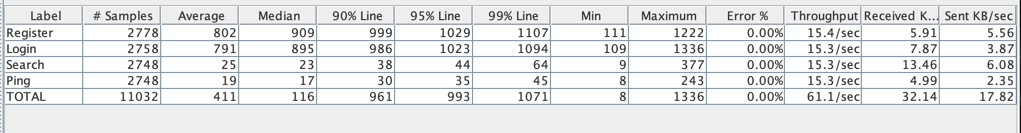
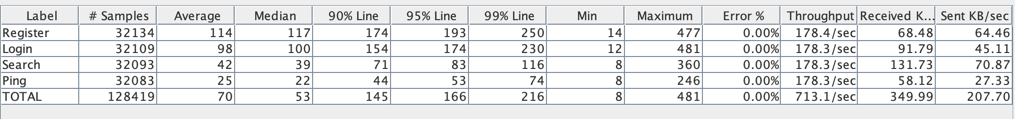
update report

diff --git a/jmeter/report.md b/jmeter/report.md
@@ -18,9 +18,9 @@ SSD: 40gb
 ### Конфигурация теста
 
 Полная конфигурация представлена jmeter [тут](social_load_test.jmx).
-Короткое описание:
+Короткое описание: постепенное наращивание активных юзеров до 60 в течение 60сек и удержание нагрузки в течение 180сек
 ```
-Number of threads(users): 30
+Number of threads(users): 60
 Rump-up period: 60s
 Duration: 180s
 ```
@@ -56,7 +56,7 @@ Gather  (cost=1000.00..22215.58 rows=25 width=77)
 
 ![before_index_load_res.png](before_index_load_res.png)
 
-Результаты достаточно плачевные, около 10сек на поиск в 99p, а пропусканая способность не выше 4 запросов в секунду.
+Результаты достаточно плачевные, около 15сек на поиск в 99p, а пропусканая способность не выше 4.6 запросов в секунду.
 
 ### Выбор индекса
 
@@ -107,14 +107,5 @@ Index Cond: (((name)::text ~~ '%some%'::text) AND ((surname)::text ~~ '%some%'::
 ![after_index_load_res.png](after_index_load_res.png)
 
 Выигрышь в производительности поиска колосальный.
-64 сек в 99p, что в ~165 быстрее, чем было без индекса. 
-Пропусканая способность так же подросла в ~5 раз, и составила 15 запросов в секунду.
-
-__PS__
-
-Можно подумать, что индекс значительно замедлил вставку в таблицу, так как регистрация замедлилась более чем в два раза.
-Однако это из-за того, что увеличилось кол-во одновременных запросов без тормозящего поиска.
-Пропускная способность около 15 запросов в секунду.
-Были так же проведены нагрузочные тесты только на регистрацию до и после создания индекса. Отличий в latency замечено не было.
-Медленная регистрация и логин при высоких нагрузках - это bottleneck моего проекта, который я еще не успел поправить и локализировать.
-
+116мс в 99p, что в ~130 раз быстрее, чем было без индекса. 
+Пропусканая способность так же подросла в ~38 раз, и составила 178 запросов в секунду.
